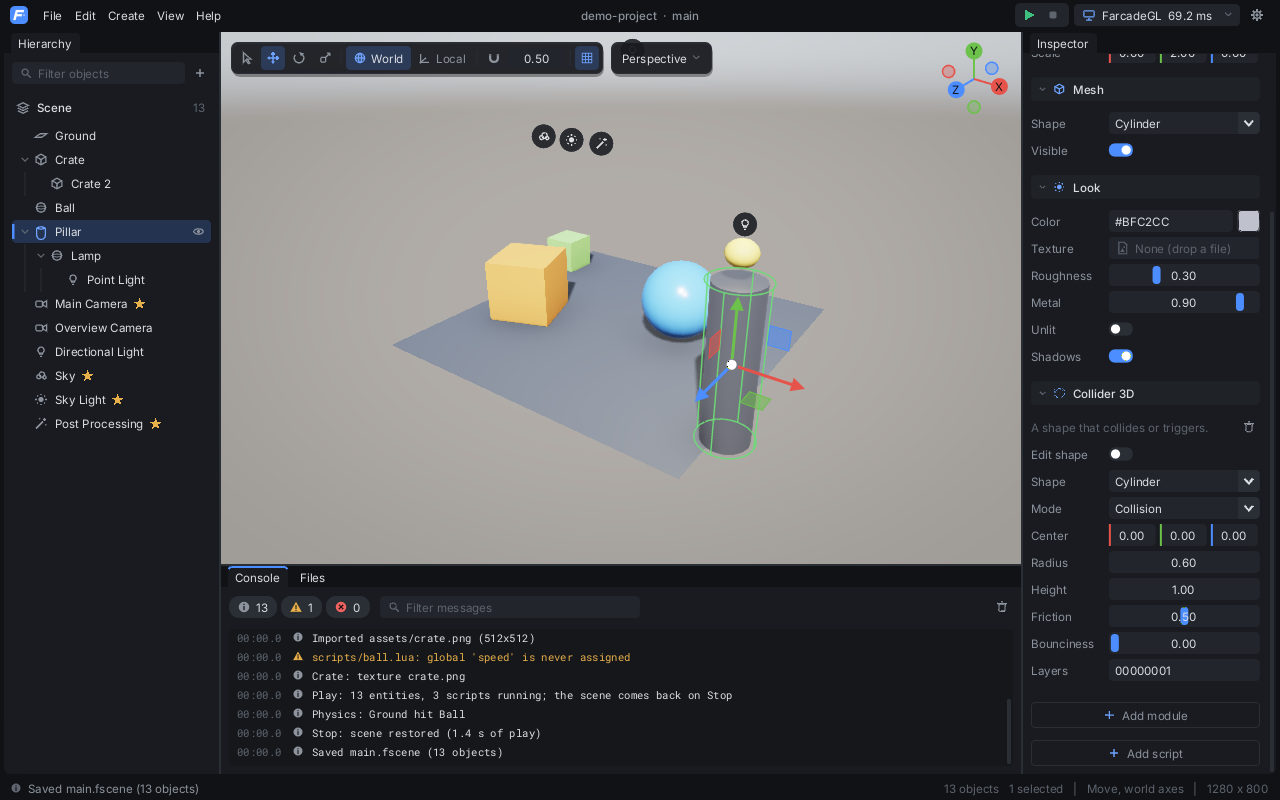
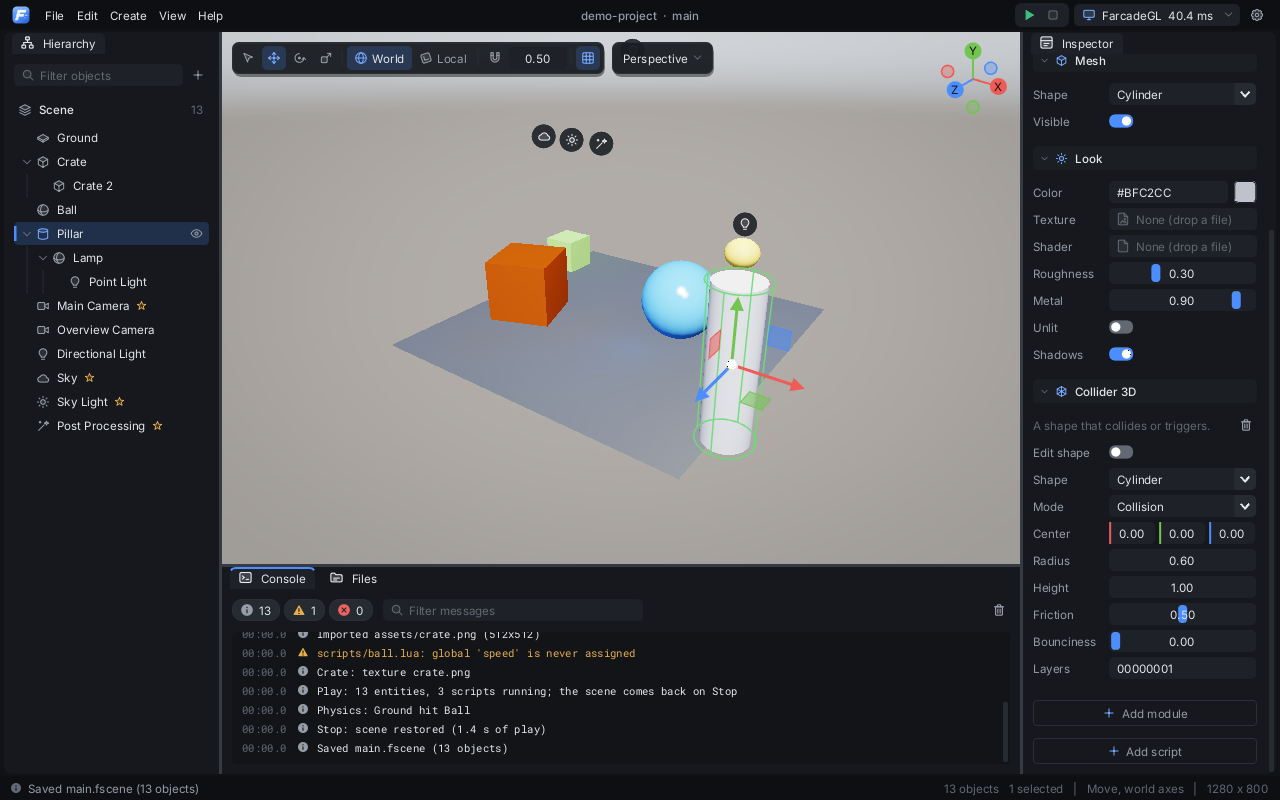
README: new renders of the redesigned editor
Every editor screenshot is re-rendered with the new theme, the floating
windows and the vector icons; new ones show the Settings window and the
Create menu. The FarcadeGL shots now really show FarcadeGL (the demo
project gets a real crate texture), the Minimal-OS shot is from QEMU
with the same build, and the renderer shots follow the current presets.

Claude-Session: https://claude.ai/code/session_0112xJogLv1dfHPcB1oxhcYo

diff --git a/editor/main_shot.cpp b/editor/main_shot.cpp
@@ -10,6 +10,9 @@
 #include "platform/headless.h"
 
 #include "imgui/imgui.h"
+#define STB_IMAGE_WRITE_STATIC           // a private copy (the platform and the importers have their own)
+#define STB_IMAGE_WRITE_IMPLEMENTATION
+#include "stb/stb_image_write.h"
 #include "imgui/imgui_internal.h"
 
 #include <stdio.h>
@@ -133,7 +136,31 @@ int main(int argc, char** argv) {
           "  local ball = self.follow and self.follow:script(\"ball\")\n"
           "  self.on = ball ~= nil and ball.speed > self.threshold\n"
           "end\n");
-    touch(project, "crate.png", "PNG");
+    // A real crate texture (planks with a frame), so FarcadeGL draws it.
+    {
+        enum { T = 128 };
+        static uint8_t px[T * T * 3];
+        for (int y = 0; y < T; y++)
+            for (int x = 0; x < T; x++) {
+                bool frame = x < 10 || x >= T - 10 || y < 10 || y >= T - 10;
+                bool brace = abs((x - y)) < 7 || abs((x + y) - (T - 1)) < 7;
+                int plank = (y / 27) & 1;
+                float grain = 0.88f + 0.12f * fsin((float)x * 0.21f + fsin((float)y * 0.07f) * 3.0f);
+                float shade = frame || brace ? 0.78f : (plank ? 0.95f : 1.0f) * grain;
+                if (!frame && !brace && y % 27 == 0) shade *= 0.55f;          // gaps between planks
+                uint8_t* c = &px[(y * T + x) * 3];
+                c[0] = (uint8_t)(214 * shade);
+                c[1] = (uint8_t)(150 * shade);
+                c[2] = (uint8_t)(84 * shade);
+            }
+        char path[512];
+        snprintf(path, sizeof(path), "%s/assets", project);
+        mkdir(path, 0755);
+        snprintf(path, sizeof(path), "%s/assets/crate.png", project);
+        stbi_write_png(path, T, T, 3, px, T * 3);
+        snprintf(path, sizeof(path), "%s/crate.png", project);      // also next to the scenes, for the Files panel
+        stbi_write_png(path, T, T, 3, px, T * 3);
+    }
     touch(project, "grass.jpg", "JPG");
     touch(project, "notes.txt", "todo\n");
 

diff --git a/README.md b/README.md
@@ -20,6 +20,8 @@ repository.
 
 | | |
 |---|---|
+| ![The Settings window](docs/screenshots/editor-settings.png) | ![The Create menu with its icons](docs/screenshots/editor-menu.png) |
+| **Settings**: a floating window with a border and shadow over the editor, pages in a sidebar; Graphics lists every technique as a choice | **Vector icons** in menus, tabs and panels: SVG drawn as Minimal-OS vector `.img` files, rasterized at any size (`editor/icons`) |
 | ![Light theme](docs/screenshots/editor-light.png) | ![Modules on an object: Rigidbody 3D, Collider 3D, Audio Sampler](docs/screenshots/editor-modules.png) |
 | **Light theme**: the same scene; the parent/child tree in the Hierarchy | **Modules**: Rigidbody 3D, Collider 3D and Audio Sampler on the ball (`docs/modules.md`) |
 | ![A camera object and its Current switch](docs/screenshots/editor-camera.png) | ![Play mode](docs/screenshots/editor-play.png) |
@@ -27,7 +29,7 @@ repository.
 | ![The viewport drawn by FarcadeGL](docs/screenshots/editor-farcadegl.png) | ![Play through the current camera, drawn by FarcadeGL](docs/screenshots/editor-farcadegl-play.png) |
 | **FarcadeGL** draws the viewport: the sun, the sky, the sky light and post processing (renderer menu, top right) | **Play** looks through the current camera (Main Camera) |
 | ![FarcadeGL base tier](docs/screenshots/gfx-low.png) | ![FarcadeGL GPU tier](docs/screenshots/gfx-ultra.png) |
-| **FarcadeGL, base tier** (runs everywhere, also on the CPU) | **GPU tier** (Ultra): sun shadows, ambient occlusion, bloom, PBR metals, FXAA, fog. On by default only on a graphics card |
+| **FarcadeGL, base tier** (runs everywhere, also on the CPU) | **GPU tier** (Ultra): cascaded sun shadows, GTAO, TAA, screen-space reflections, bloom, PBR metals, probe GI, fog. On by default only on a graphics card |
 | ![Shaping a collider](docs/screenshots/editor-collider.png) | ![GPU tier in the editor](docs/screenshots/editor-farcadegl-ultra.png) |
 | **Collider shapes**: Edit shape, then drag the dots (height, radius, box size) | The editor viewport with the GPU tier forced on (Settings > Graphics) |
 | ![Material settings in the Inspector](docs/screenshots/editor-material.png) | ![The unsaved-changes prompt](docs/screenshots/editor-unsaved.png) |
@@ -35,8 +37,8 @@ repository.
 
 ![The editor running on Minimal-OS in QEMU](docs/screenshots/editor-minimal-os.png)
 
-*The editor running full screen on Minimal-OS (QEMU, 1024x768), with the
-entity system linked in.*
+*The editor running full screen on Minimal-OS (QEMU, 1024x768): the same
+theme and vector icons, the viewport drawn by FarcadeGL on the kernel's FGPU.*
 
 The screenshots come from `build/host/bin/fe-editor-shot <dir>`, which
 renders the editor headless on the PC, and from `tools/ci/run_os.sh` with
